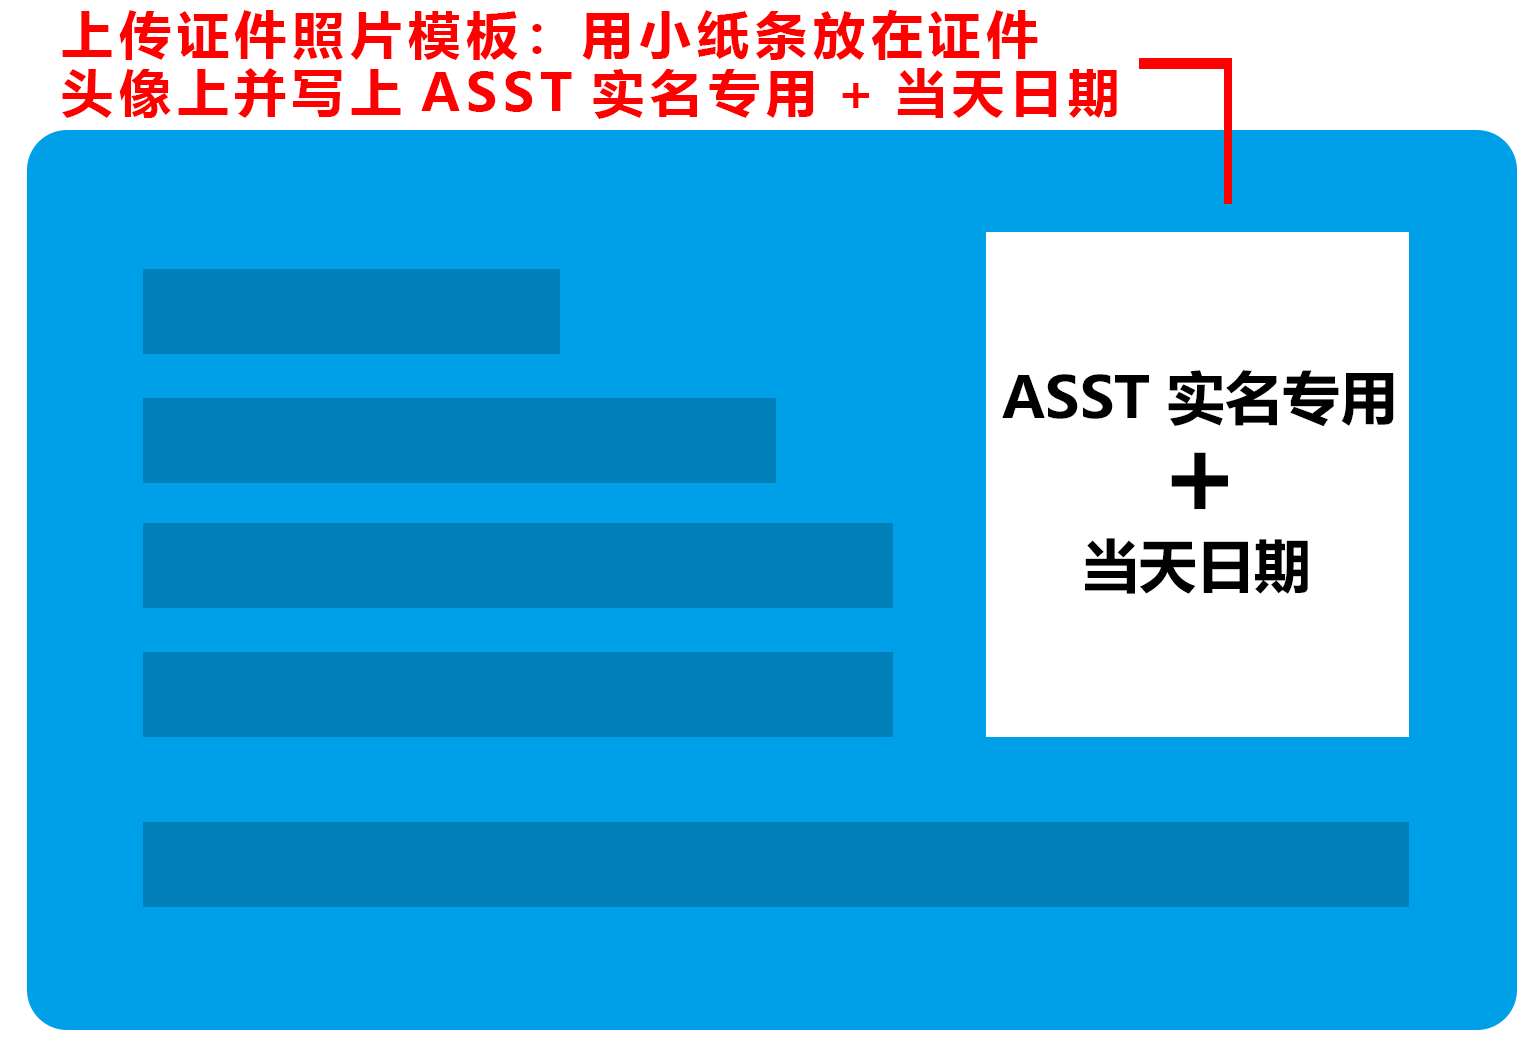
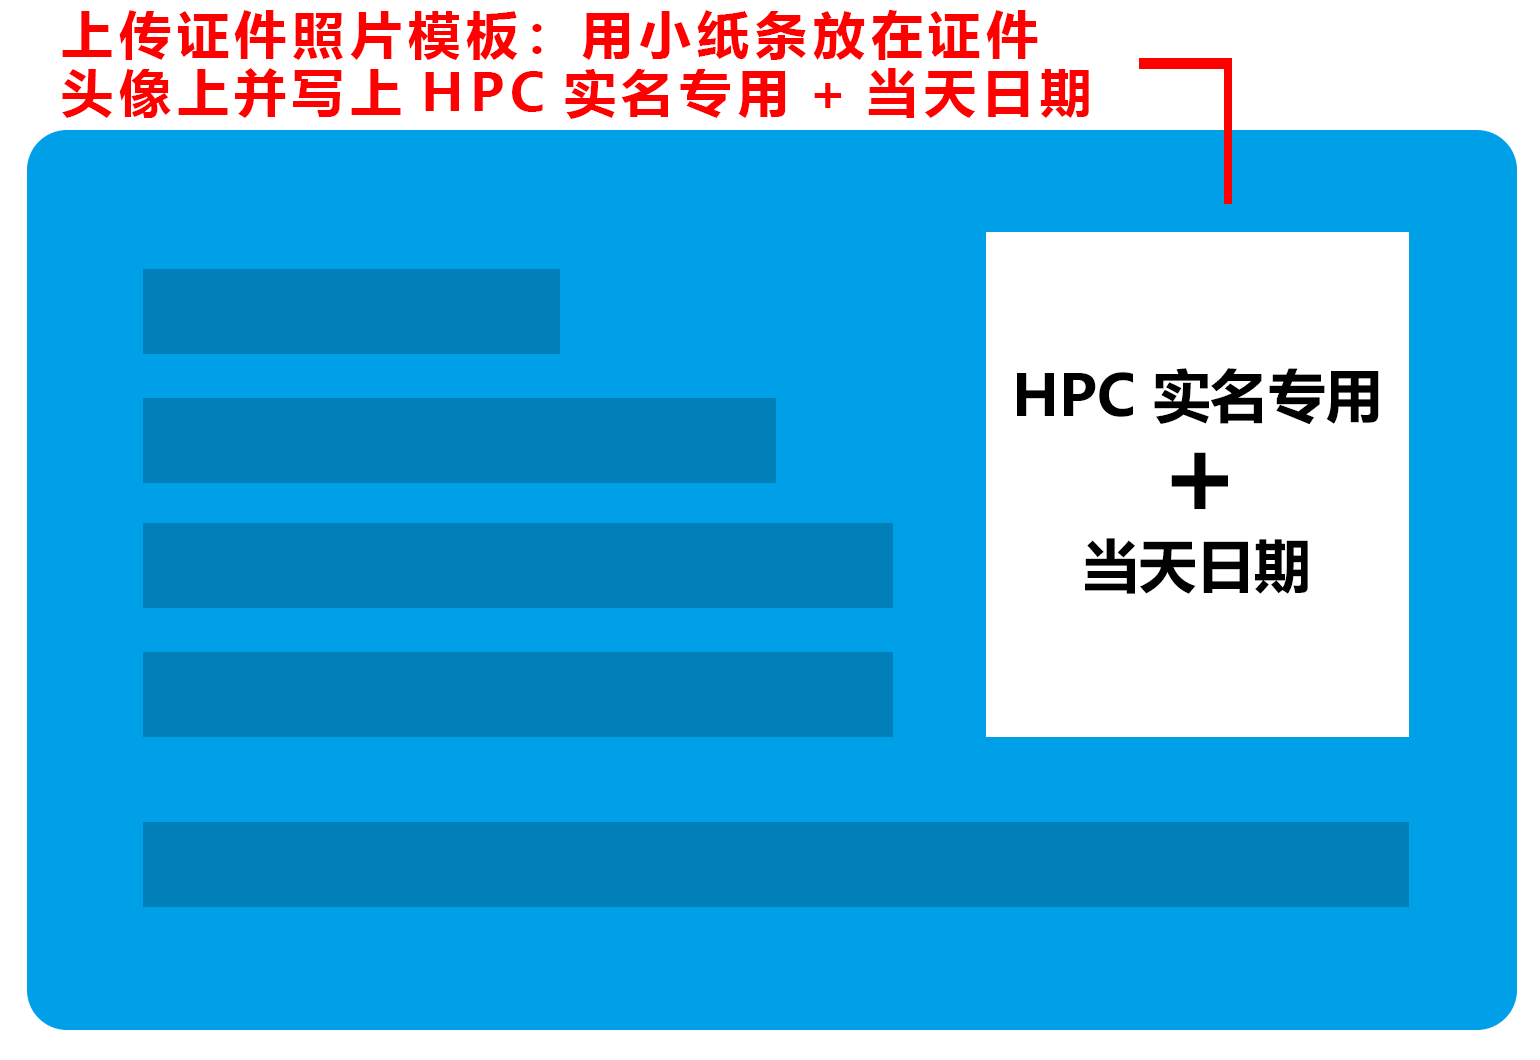
注册登陆加密

Changed region(s): [[0.2805, 0.0623, 0.7481, 0.1245], [0.6545, 0.3425, 0.9039, 0.4047]]

diff --git a/src/views/my/realName.vue b/src/views/my/realName.vue
@@ -13,7 +13,7 @@
 	color: #323232 !important;
 }
 .realNameBox{
-	@include pageBlackBG();
+	@include pageBlackBGHaveHeight();
 	.realName{
 		overflow-y: scroll;
 		.van-cell__value, .van-cell__value--alone, .van-field__control{
@@ -158,9 +158,10 @@
 	<!-- 实名认证 -->
 	<div class="realName">
 		<div class="tip4model1">
-			温馨提示：以下资料是用户之间交换矿石时的凭据信息，请认真填写。<br>
+			<b class="textBold">温馨提示：</b>
+			<br>以下资料是用户之间交换矿石时的凭据信息，提交实名后需待客服审核，每个账号只有3次实名的机会，请认真填写。<br>
 			注：微信号和支付宝号需填写所绑定的手机号，且与帮扶链平台的登录手机号保持一致，若您的微信和支付宝未绑定手机号，请先去微信和支付宝绑定。<br>
-			<b>身份证正面照片:</b><br>即带有姓名那一面的照片，需带上小纸条并写上，ASST认证专用+当天日期。<i class="underline" @click="showExamplePic">点击查看模板</i>
+			<b class="textBold">身份证正面照片:</b><br>即带有姓名那一面的照片，需带上小纸条并写上，{{$api.projectEnglishName}}认证专用+当天日期。<i class="underline" @click="showExamplePic">点击查看模板</i>
 		</div>
 		
 		<van-field v-model="form.nickName" required clearable label="昵称" :placeholder="errorHint.nickName" maxlength="20" @blur="validate('nickName')" :error-message="errorInfo.nickName"/>
@@ -459,18 +460,22 @@ export default {
 				_this.$toast(`系统提示：2次密码不一样`);
 				return;
 			}
+			params.securityPassword = _this.$encryption(_this.form.securityPassword);
 			let mobilePhone = localStorage.getItem('mobilePhone');
 			if(params.alipayNum == params.wechartNum && params.wechartNum == mobilePhone){
 				console.log('系统提示：可提交信息');
 				_this.$ajax.ajax(_this.$api.updateAssistUsrInfo4RealName, 'POST', params, function(res){
-					// console.log('res',res);
+					console.log('res.code',res.code);
 					_this.$cookies.set('isRefreshUserInfo',1,_this.$api.cookiesTime);
 					if(res.code == _this.$api.CODE_OK){
-						// _this.info = res.data.list;
-						// _this.isRealName = true;
-						// _this.$toast(res.message);
-						_this.$cookies.set('isRefreshUserInfo',1,_this.$api.cookiesTime);
-						_this.$router.replace("myInfo");
+						Dialog.alert({
+						  title: '系统提示',
+						  message: res.message
+						}).then(() => {
+						  // on close
+						  _this.$cookies.set('isRefreshUserInfo',1,_this.$api.cookiesTime);
+						  _this.$router.replace("my");
+						});
 					}else{
 						_this.$toast(res.message);
 					}

diff --git a/src/router.js b/src/router.js
@@ -4,7 +4,13 @@ import Register from './views/start/register'
 import Login from './views/start/login'
 
 Vue.use(Router)
-
+/**
+ * 重写路由的push方法
+ */
+/* const routerPush = Router.prototype.push
+Router.prototype.push = function push(location) {
+  return routerPush.call(this, location).catch(error=> error)
+} */
 export default new Router({
 	// mode: 'history',
 	base: process.env.BASE_URL,
@@ -49,7 +55,7 @@ export default new Router({
 			redirect: "/home"
 		},
 		{
-			path: '/',
+			path: '/wrapper',
 			component: () => import('./components/Wrapper'),
 			children: [{
 					path: '/home',
@@ -123,18 +129,6 @@ export default new Router({
 							meta:{footer:false},
 						},
 						{
-							path: '/myInfo',
-							name: '我的身份',
-							component: () => import('./views/my/myInfo'),
-							meta:{footer:false},
-						},
-						{
-							path: '/realName',
-							name: '实名认证',
-							component: () => import('./views/my/realName'),
-							meta:{footer:false},
-						},
-						{
 							path: '/myWord',
 							name: '我要留言',
 							component: () => import('./views/my/myWord'),
@@ -201,6 +195,18 @@ export default new Router({
 							meta:{footer:false,back:true,child1:0},
 						},
 					]
+				},
+				{
+					path: '/myInfo',
+					name: '我的身份',
+					component: () => import('./views/my/myInfo'),
+					meta:{footer:false},
+				},
+				{
+					path: '/realName',
+					name: '实名认证',
+					component: () => import('./views/my/realName'),
+					meta:{footer:false},
 				},
 				{
 					path: '/ranking',

diff --git a/src/main.js b/src/main.js
@@ -16,11 +16,21 @@ Vue.config.productionTip = false;
 Vue.prototype.$toast = Toast;
 Vue.prototype.$api = api;
 import reg from '@/assets/js/reg';
-import utils from '@/assets/js/utils';
-import getAjaxs from '@/api/ajax';
 Vue.prototype.$reg = reg;
+import utils from '@/assets/js/utils';
 Vue.prototype.$utils = utils;
+import getAjaxs from '@/api/ajax';
 Vue.prototype.$ajax = getAjaxs;
+import JsEncrypt from 'jsencrypt';
+Vue.prototype.$jsEncrypt = JsEncrypt;
+Vue.prototype.$encryption = function(obj){
[2 lines of base64/hex data omitted]
+	let encrypt = new JsEncrypt();
+	encrypt.setPublicKey(publicKey);
+	return encrypt.encrypt(obj);
+}
+
 import * as filters from '@/assets/js/filters';
 // Vue.prototype.filters = filters;
 import VueCookies from 'vue-cookies';

diff --git a/src/views/start/register.vue b/src/views/start/register.vue
@@ -109,21 +109,15 @@
 		mounted() {
 			let _this = this;
 			_this.welcomeText = _this.$api.welcomeText;
-			// _this.initializeerrorHint();
-			// _this.initializeTabActiveName();
-			/* let userInfo = localStorage.getItem("_USERINFO_");
-			if(userInfo){
-				_this.userInfo = JSON.parse(userInfo);
-				console.log('userInfo',_this.userInfo);
-				_this.form.shareCode = _this.userInfo.shareCode;
-				console.log('_this.form.shareCode',_this.form.shareCode);
-			}else{
-				_this.$toast(_this.$api.loginAgainTipText);
-				_this.$router.replace('login');
-				return;
-			} */
 			_this.form.shareCode = _this.$route.query.id;
 			console.log('shareCode',_this.$route.query.id);
+			/*
+			//ASE
+			let testPhone = "linqitai121421.";
+			let encryptPhone = _this.$encryption(testPhone);
+			console.log("encryptPhone",encryptPhone);
+			let decryptPhone = _this.$decryption(encryptPhone);
+			console.log("decryptPhone",decryptPhone); */
 		},
 		methods:{
 			loginBtn(){
@@ -146,6 +140,9 @@
 					_this.$toast('2次密码不一致');
 					return;
 				}
+				delete params.confirmPassword;
+				params.password = _this.$encryption(_this.form.password);
+				// console.log('params',params);
 				_this.isLoading = true;
 				_this.$ajax.ajax(_this.$api.register, 'POST', params, function(res) {
 					// console.log('res', res);

diff --git a/src/views/my/myInfo.vue b/src/views/my/myInfo.vue
@@ -13,7 +13,7 @@
 	color: #323232 !important;
 }
 .myInfo{
-	@include pageMy();
+	@include pageHaveHeight4Scroll();
 	[class*=van-hairline]::after {
 	    border: 1px solid transparent !important;
 	}
@@ -364,7 +364,7 @@ export default {
 	components:{
 	    mHeader
 	},
-	watch:{
+	/* watch:{
 		$route(now,old){
 			let _this = this;
 			// console.log(_this.$cookies.get('isRefreshUserInfo'),'isRefreshUserInfo')
@@ -372,9 +372,8 @@ export default {
 				_this.getUserInfo();
 			}
 		},
-	},
+	}, */
 	created(){
-		console.log("create");
 		let _this = this;
 		_this.projectName = _this.$api.projectName;
 		// _this.userInfo = _this.$cookies.get('_USERINFO_');
@@ -390,6 +389,7 @@ export default {
 			_this.$router.replace('login');
 			return;
 		}
+		_this.getUserInfo();
 		/* if(_this.$cookies.get('isRefreshUserInfo')==1){
 			_this.getUserInfo();
 		} */
@@ -400,7 +400,7 @@ export default {
 	},
 	methods:{
 		back(){
-			this.$router.replace('my');
+			this.$router.go(-1);
 		},
 		getActiveStatus(val){
 			let _this = this;

diff --git a/src/api/index.js b/src/api/index.js
@@ -7,9 +7,9 @@ const host = '/bflApp/'
 const domainName = 'www.assist-china.com';
 export default {
 	projectName:'帮扶链',
-	projectEnglishName:'矿石',
-	ticketName:'平台券',
-	welcomeText:"欢迎来到ASST帮扶链,让我们携手共同打造公平、公正、公开、透明、去中心化的好平台。",
+	projectEnglishName:'HPC',
+	ticketName:'帮扶券',
+	welcomeText:"欢迎来到HPC帮扶链,让我们携手共同打造公平、公正、公开、透明、去中心化的公益型创业平台。",
 	HOST_IMG: hostImg,
 	cookiesTime: 60 * 60 * 24,
 	cookiesTime8h: 60 * 60 * 8,
@@ -32,7 +32,6 @@ export default {
 	loginOut: host + 'web/login/loginOut',
 	register: host + 'assist/register/register',
 	innerRegister: host + 'assist/register/innerRegister',
-	changeLoginPassword: host + 'assist/register/changePassword',
 	//用户信息
 	getAssistUserInfo: host + 'assist/userInfo/getAssistUserInfo',
 	getAssistUserInfo4Path: host + 'assist/userInfo/getAssistUserInfo4Path/',

diff --git a/src/views/my/my.vue b/src/views/my/my.vue
@@ -579,7 +579,6 @@
 		watch:{
 			$route(now,old){
 				let _this = this;
-				console.log(_this.$cookies.get('isRefreshUserInfo'),'isRefreshUserInfo')
 				if(_this.$cookies.get('isRefreshUserInfo')==1){
 					_this.getUserInfo();
 					_this.$cookies.set('isRefreshUserInfo',0,_this.$api.cookiesTime);
@@ -589,17 +588,12 @@
 				// console.log("scrollTop");
 			},
 		},
-		destroyed() {
-			console.log("destroyed");
-			/* console.log("isOpenP",localStorage.getItem("isOpenP"));
-			localStorage.setItem("isOpenP",0);
-			console.log("isOpenP",localStorage.getItem("isOpenP")); */
-		},
-		mounted() {
+		created() {
 			let _this = this;
 			
 			let userInfo = localStorage.getItem("_USERINFO_");
 			if(userInfo){
+				console.log("userInfo_localStorage");
 				_this.userInfo = JSON.parse(userInfo);
 				_this.userId = _this.userInfo.userId;
 			}else{

diff --git a/src/views/home/agency.vue b/src/views/home/agency.vue
@@ -196,7 +196,7 @@
 				<div class="tip4model4">
 					<b class="textBold">省市代理的权限：</b><br>
 					1.省市代理拥有帮扶券的代理权。帮扶券：平台到省代理再到市代理再到用户。<br>
-					2.为了规范定向交易市场，只有省市代理拥有定向交易的权利（定向交易矿石和帮扶券）。<br>
+					2.为了规范定向交易市场，只有省市代理拥有定向交易的权利（定向交易矿石和帮扶券），代收请找省市代理。<br>
 					3.省市代理拥有引荐受帮扶对象的权利。<br>
 					4.拍下省代理获赠一台大型矿机，拍下市代理获赠一台中型矿机。<br>
 					5.其他......<br>

diff --git a/src/assets/js/jsencryptKey.js b/src/assets/js/jsencryptKey.js
@@ -1,0 +1,9 @@
+import Vue from 'vue'
+import JsEncrypt from 'jsencrypt'
+
+Vue.prototype.$encryption = function(obj){
[1 lines of base64/hex data omitted]
+	let encrypt = new JsEncrypt();
+	encrypt.setPublicKey(publicKey);
+	return encrypt.encrypt(obj);
+}

diff --git a/src/views/start/login.vue b/src/views/start/login.vue
@@ -181,6 +181,8 @@
 					_this.$toast('系统提示:请按要求填写信息');
 					return;
 				}
+				params.password = _this.$encryption(_this.form.password);
+				console.log('params',params);
 				_this.isLoading = true;
 				_this.$ajax.ajax(_this.$api.loginUser, 'GET', params, function(res) {
 					// console.log('res', res);
@@ -204,7 +206,7 @@
 						if(userInfo.accountStatus == 1){
 							_this.getUserFreezeInfo();
 						}else{
-							_this.$router.replace("home");
+							_this.$router.replace("/home");
 						}
 					}else{
 						_this.$toast(res.message);
